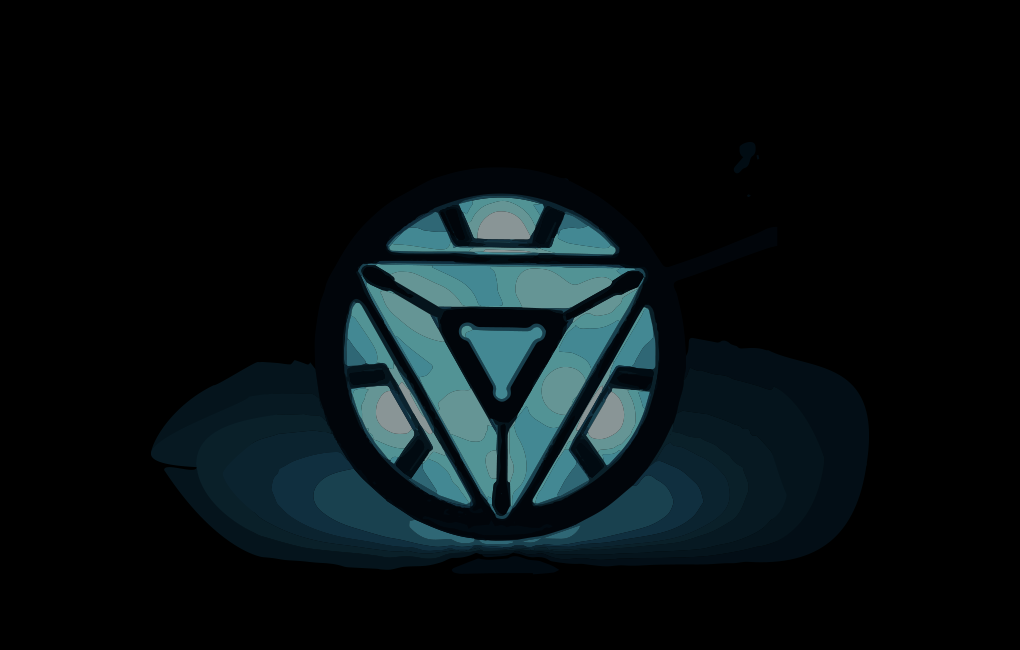
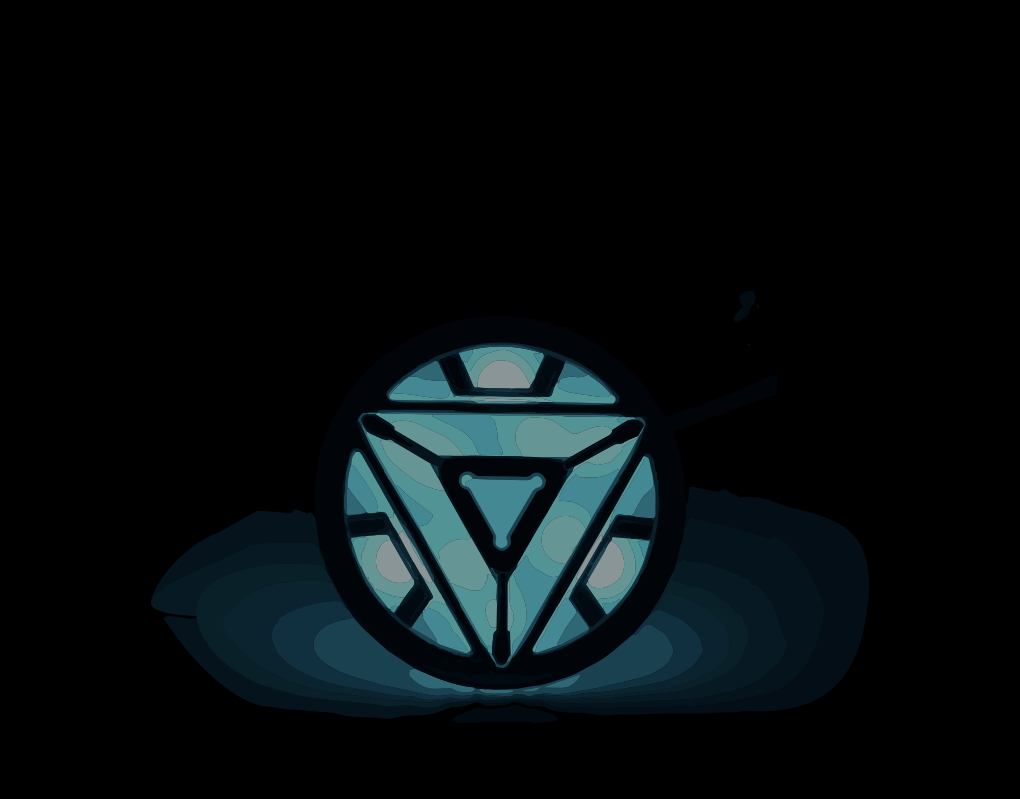
fixed carousel

Changed region(s): [[0.152, 0.2769, 0.7902, 0.9231]]

diff --git a/index.html b/index.html
@@ -9,6 +9,7 @@
         <meta name="viewport" content="width=device-width, initial-scale=1"/>
         <link rel="stylesheet" href="css/bootstrap.min.css"/>
         <link rel="stylesheet" href="style.css"/>
+        
         <script src="https://code.jquery.com/jquery-3.4.1.min.js"></script>
         <script src="js/bootstrap.min.js"></script>
     </head>
@@ -45,15 +46,28 @@
                         </ol>
                         
                         <!--XS to MD Carousel-->
-                        <div class="carousel-inner ">
+                        <div class="carousel-inner d-lg-none">
                             <div class="carousel-item active">
-                                <img class="d-block w-100" src="img/home-slice2.png">
+                                <img class="d-block w-100" src="img/home-slice4.png">
                             </div>
                             <div class="carousel-item">
-                                <img class="d-block w-100" src="img/home-slice2.png">
+                                <img class="d-block w-100" src="img/home-slice4.png">
                             </div>
                             <div class="carousel-item">
-                                <img class="d-block w-100" src="img/home-slice2.png">
+                                <img class="d-block w-100" src="img/home-slice4.png">
+                            </div>
+                        </div>
+                        
+                        <!--XS to MD Carousel-->
+                        <div class="carousel-inner d-none d-lg-block">
+                            <div class="carousel-item active">
+                                <img class="d-block w-100" src="img/home-slice3.png">
+                            </div>
+                            <div class="carousel-item">
+                                <img class="d-block w-100" src="img/home-slice3.png">
+                            </div>
+                            <div class="carousel-item">
+                                <img class="d-block w-100" src="img/home-slice3.png">
                             </div>
                         </div>
                     
@@ -125,7 +139,7 @@
         
         
         
-        
+        <script src="script.js"></script>
     </body>
 
 

diff --git a/style.css b/style.css
@@ -4,16 +4,19 @@
 /* No media query for `xs` since this is the default in Bootstrap, HERE WE WRITE EXCEPTIONS*/       /* sm (landscape phones, 576px and up)*/
 @media (min-width: 576px) {
     .carousel-inner{height: 1090px;transform:scale(1);} 
+    .carousel-item img{max-width: 700px; margin:auto;}
 }
 
 /* md (tablets, 768px and up)*/
 @media (min-width: 768px) {
-    .carousel-inner{max-height: 1000px;transform:scale(1.5);} 
+    .carousel-inner{max-height: 1100px;} 
+    .carousel-item img{max-width: 900px; margin:auto;}
 }
 
 /* lg (desktops, 992px and up)*/
 @media (min-width: 992px) {
-   .carousel-inner{max-height: 800px;transform:scale(2);} 
+   .carousel-inner{max-height: 800px;} 
+    .carousel-item img{max-width: 1000px; margin:auto;transform: scale(1);}
     
 }
 
@@ -81,7 +84,6 @@ body{
 
 .carousel-inner{
     background-position:bottom;
-    transform:scale(1.25);
 }
 
 /*CONTACT*/
